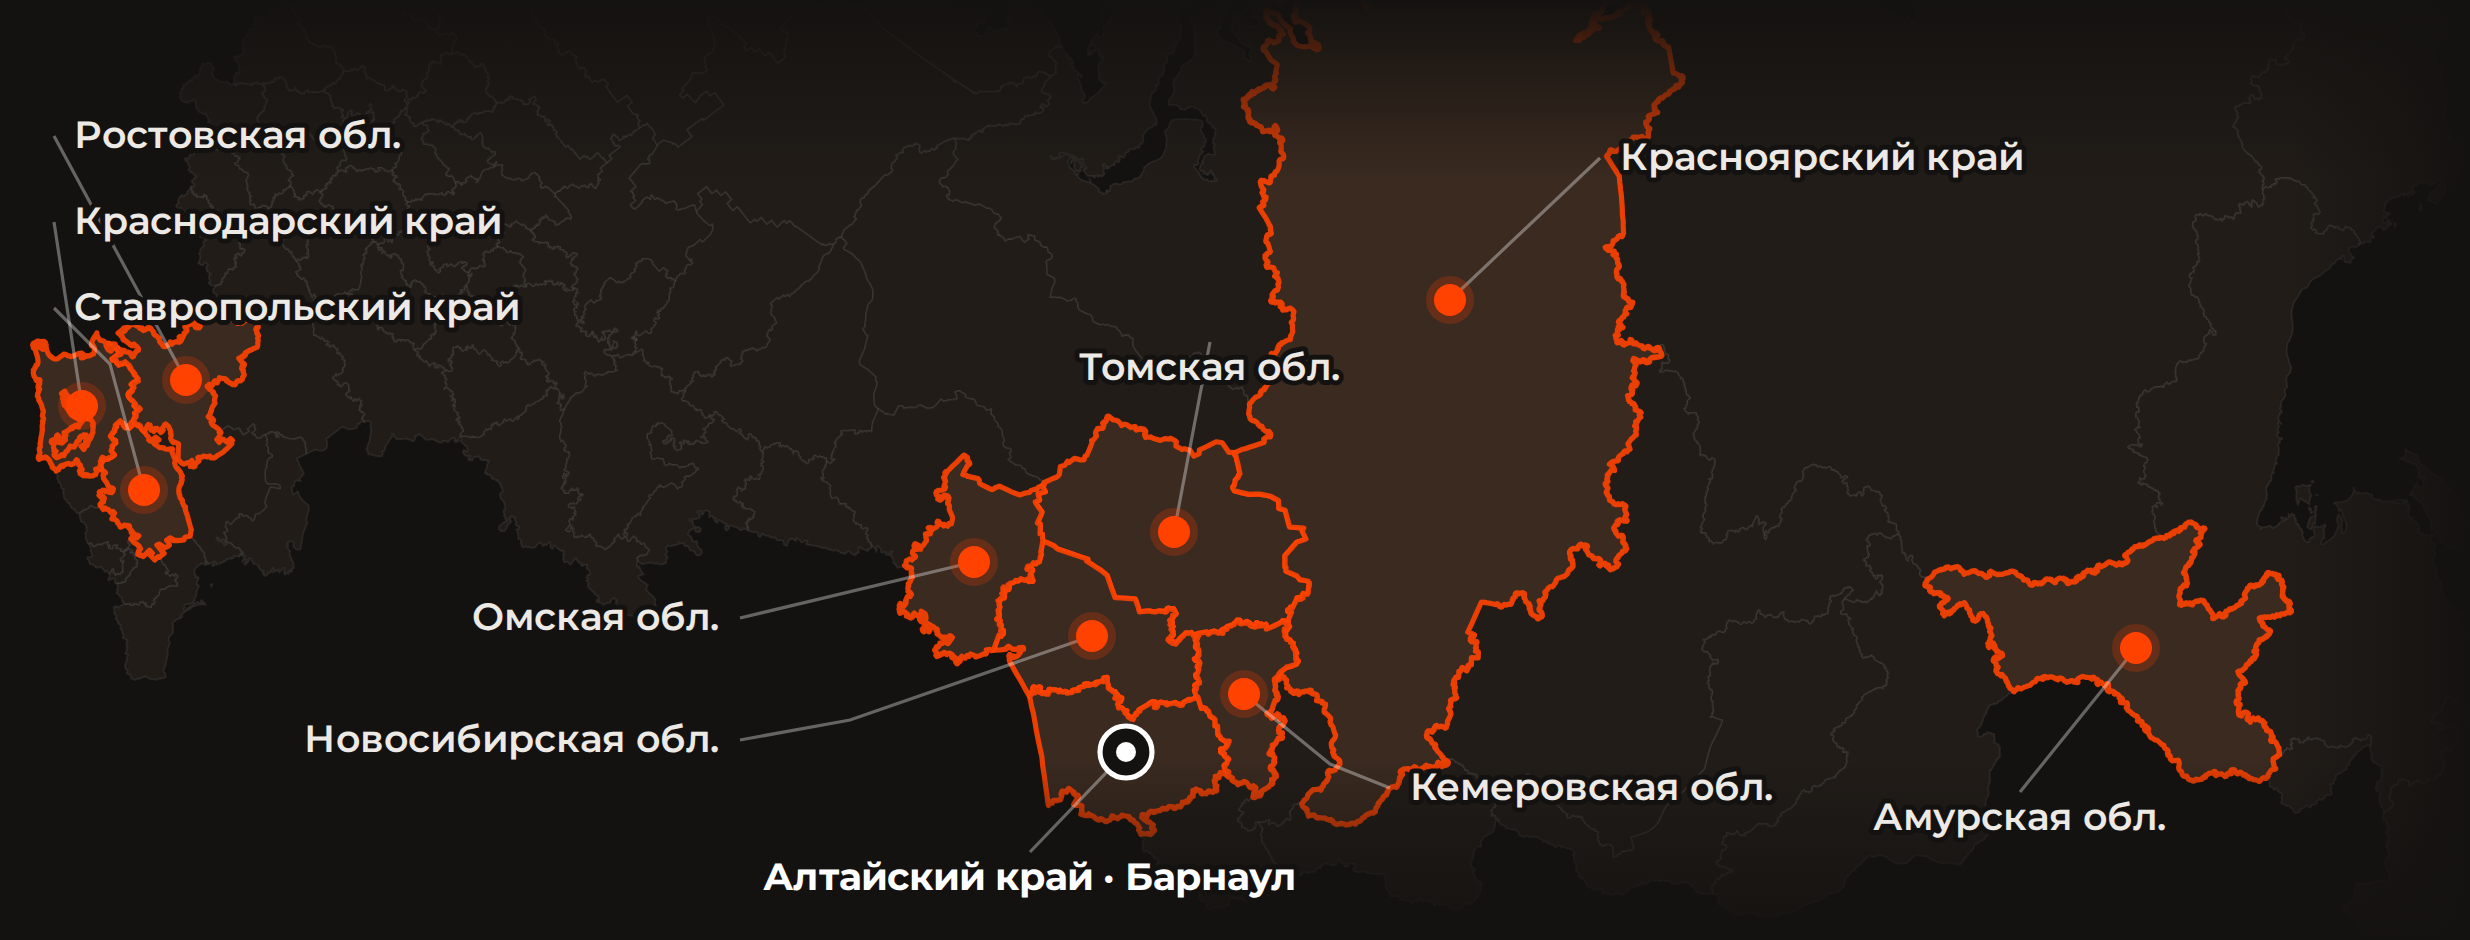
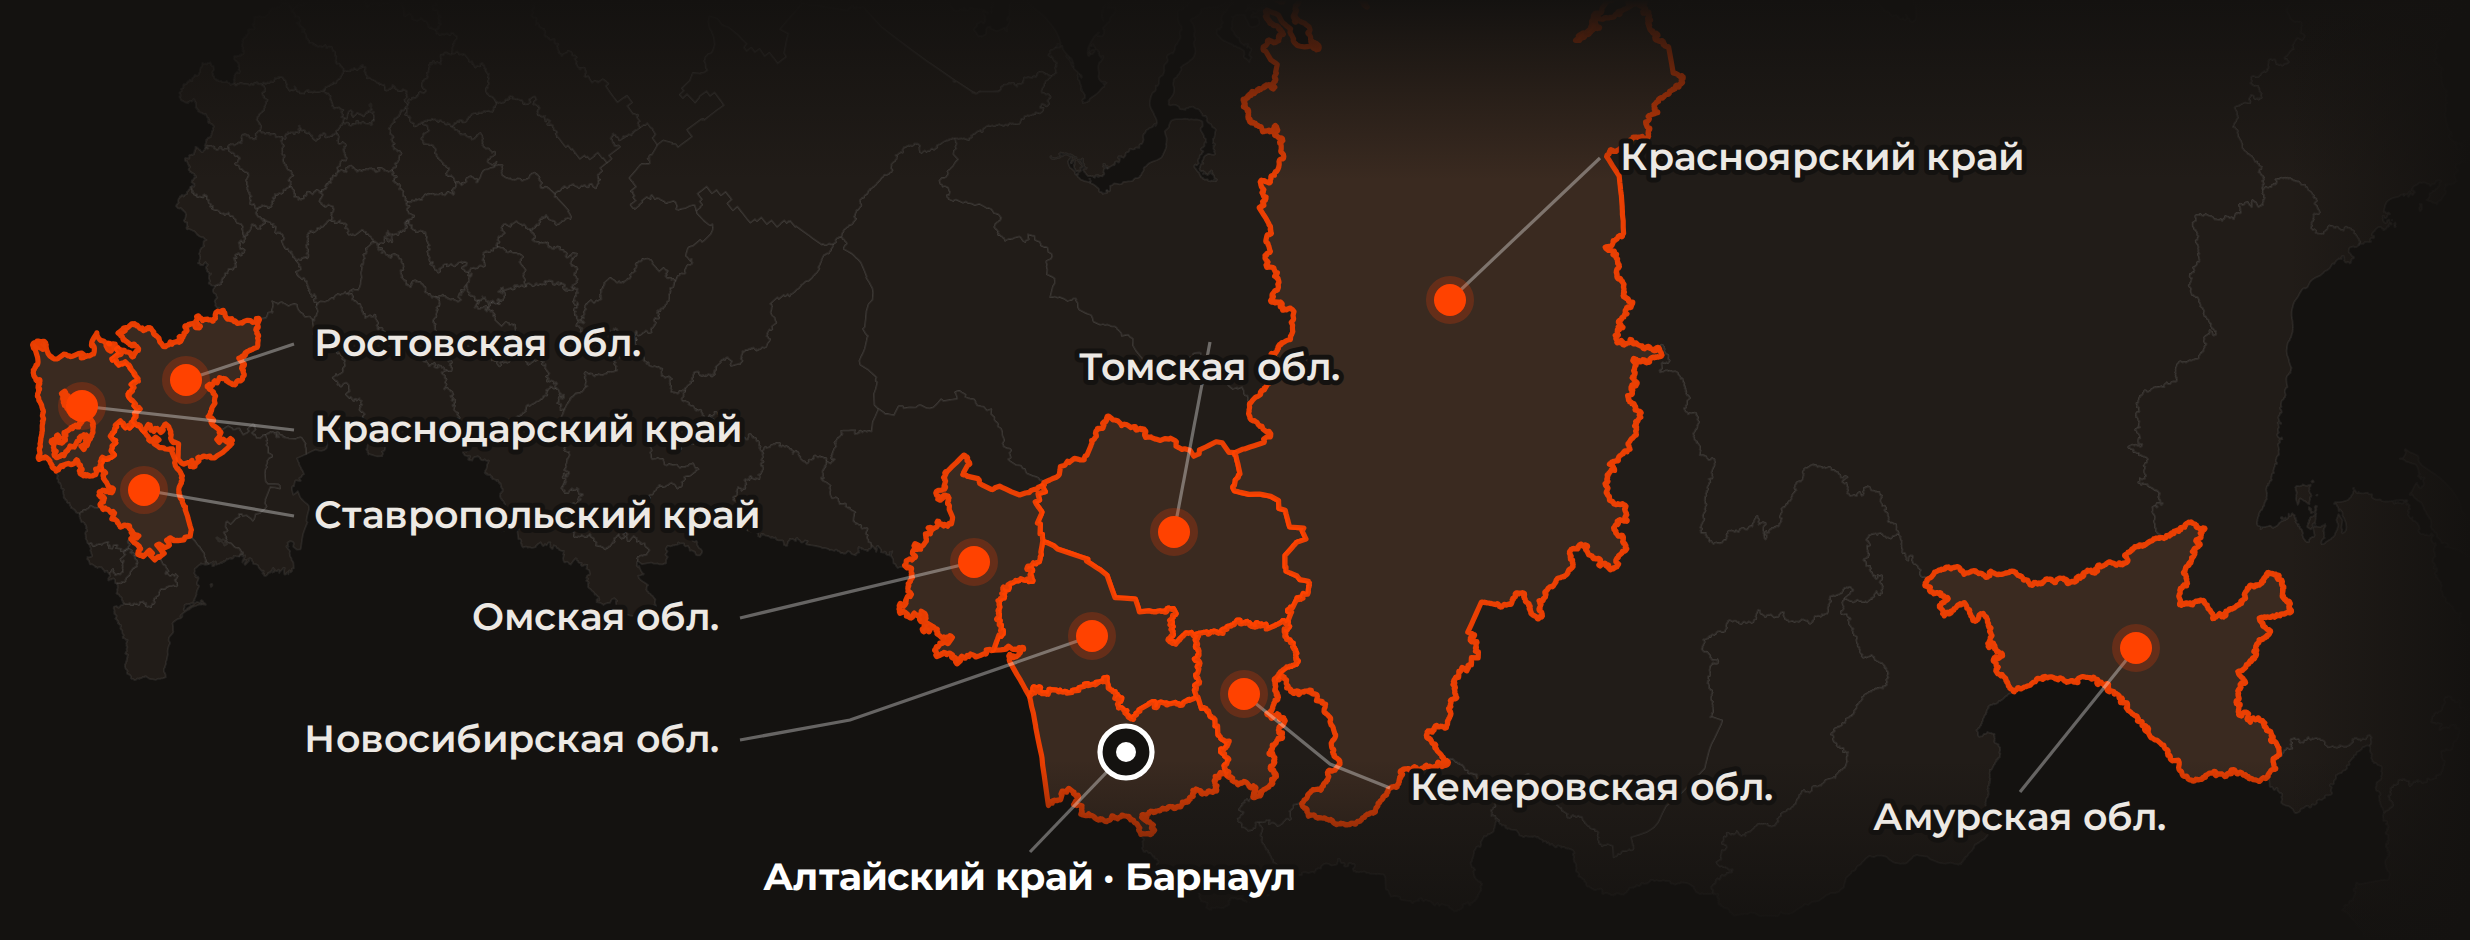
Карта: южная группа подписей выстроена в столбик справа от регионов
Claude-Session: https://claude.ai/code/session_017Yu2wUyZks2ZT3AxJsvZAM

diff --git a/design/geo-map/build_map_wide.py b/design/geo-map/build_map_wide.py
@@ -24,9 +24,9 @@ TXT = "#EDE9E4"; LEAD = "rgba(255,255,255,.35)"
 
 # подпись: x, y, выравнивание, [излом выноски]
 LAB = {
- "Ростовская область":   (132, 404, "start",  None),
- "Краснодарский край":   (132, 447, "start",  None),
- "Ставропольский край":  (132, 490, "start",  (150, 512)),
+ "Ростовская область":   (252, 508, "start",  None),
+ "Краснодарский край":   (252, 551, "start",  None),
+ "Ставропольский край":  (252, 594, "start",  None),
  "Омская область":       (455, 645, "end",    None),
  "Новосибирская область":(455, 706, "end",    (520, 690)),
  "Алтайский край":       (610, 775, "middle", None),
